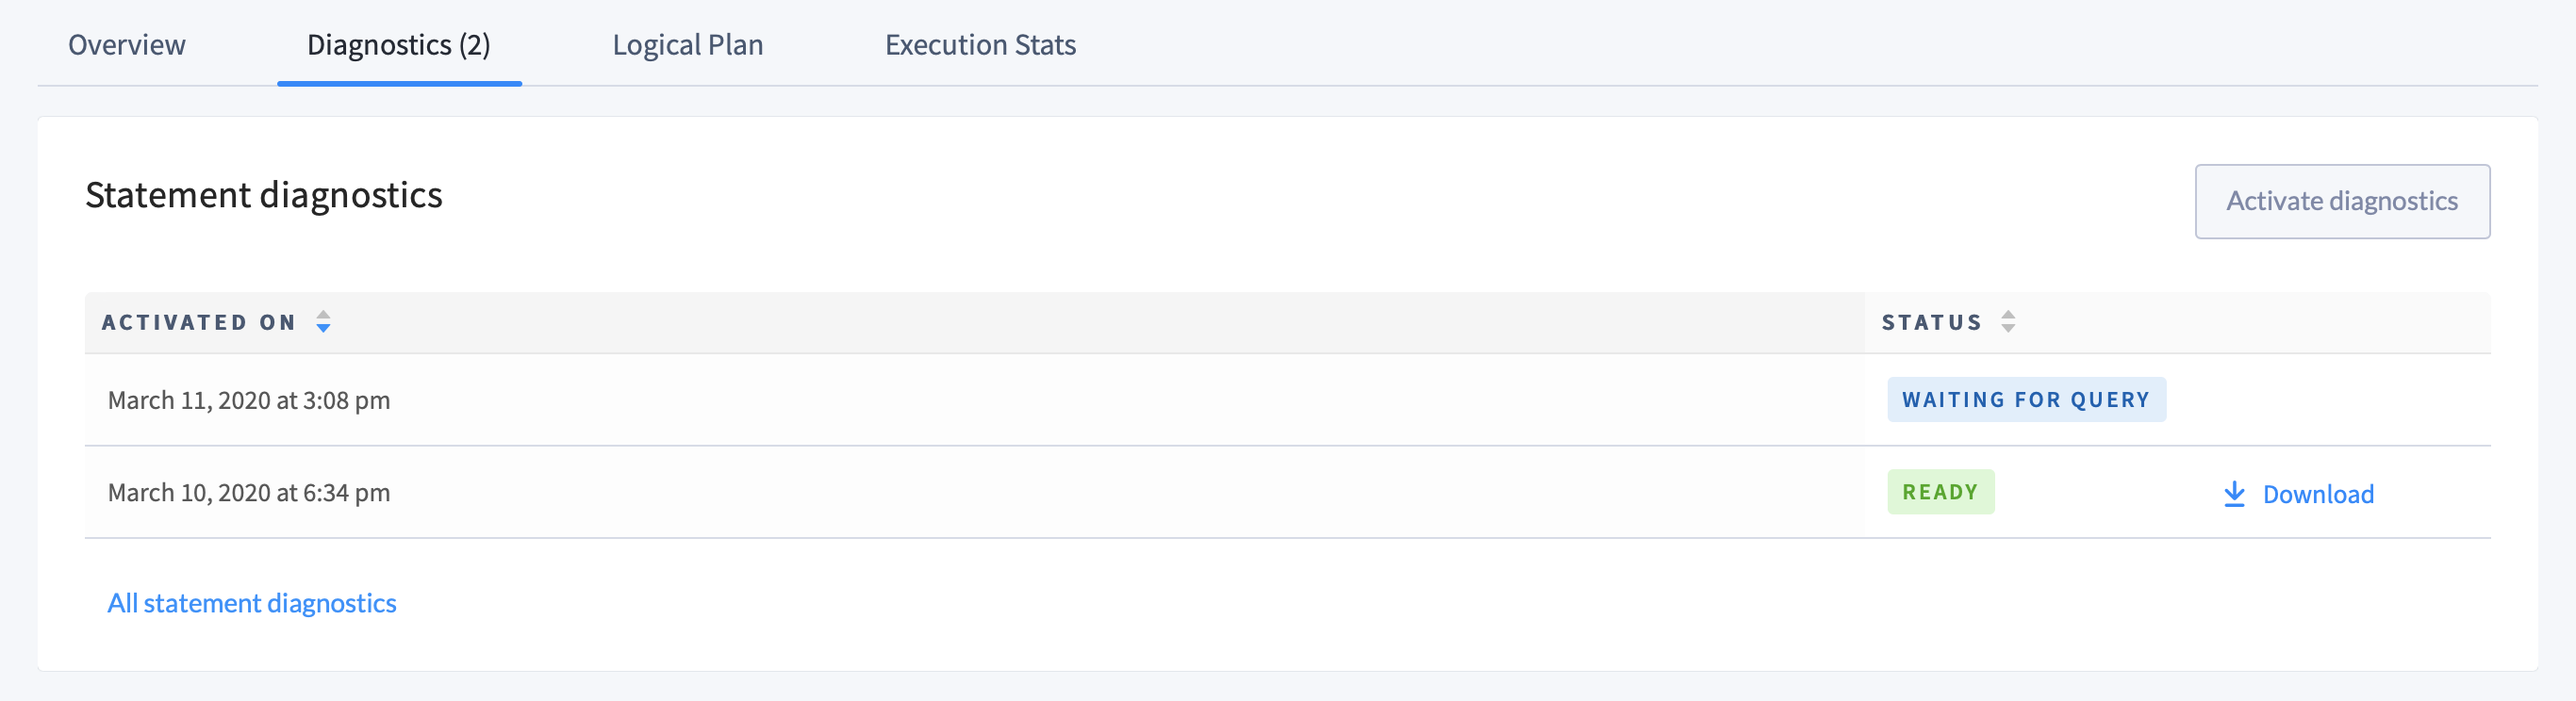
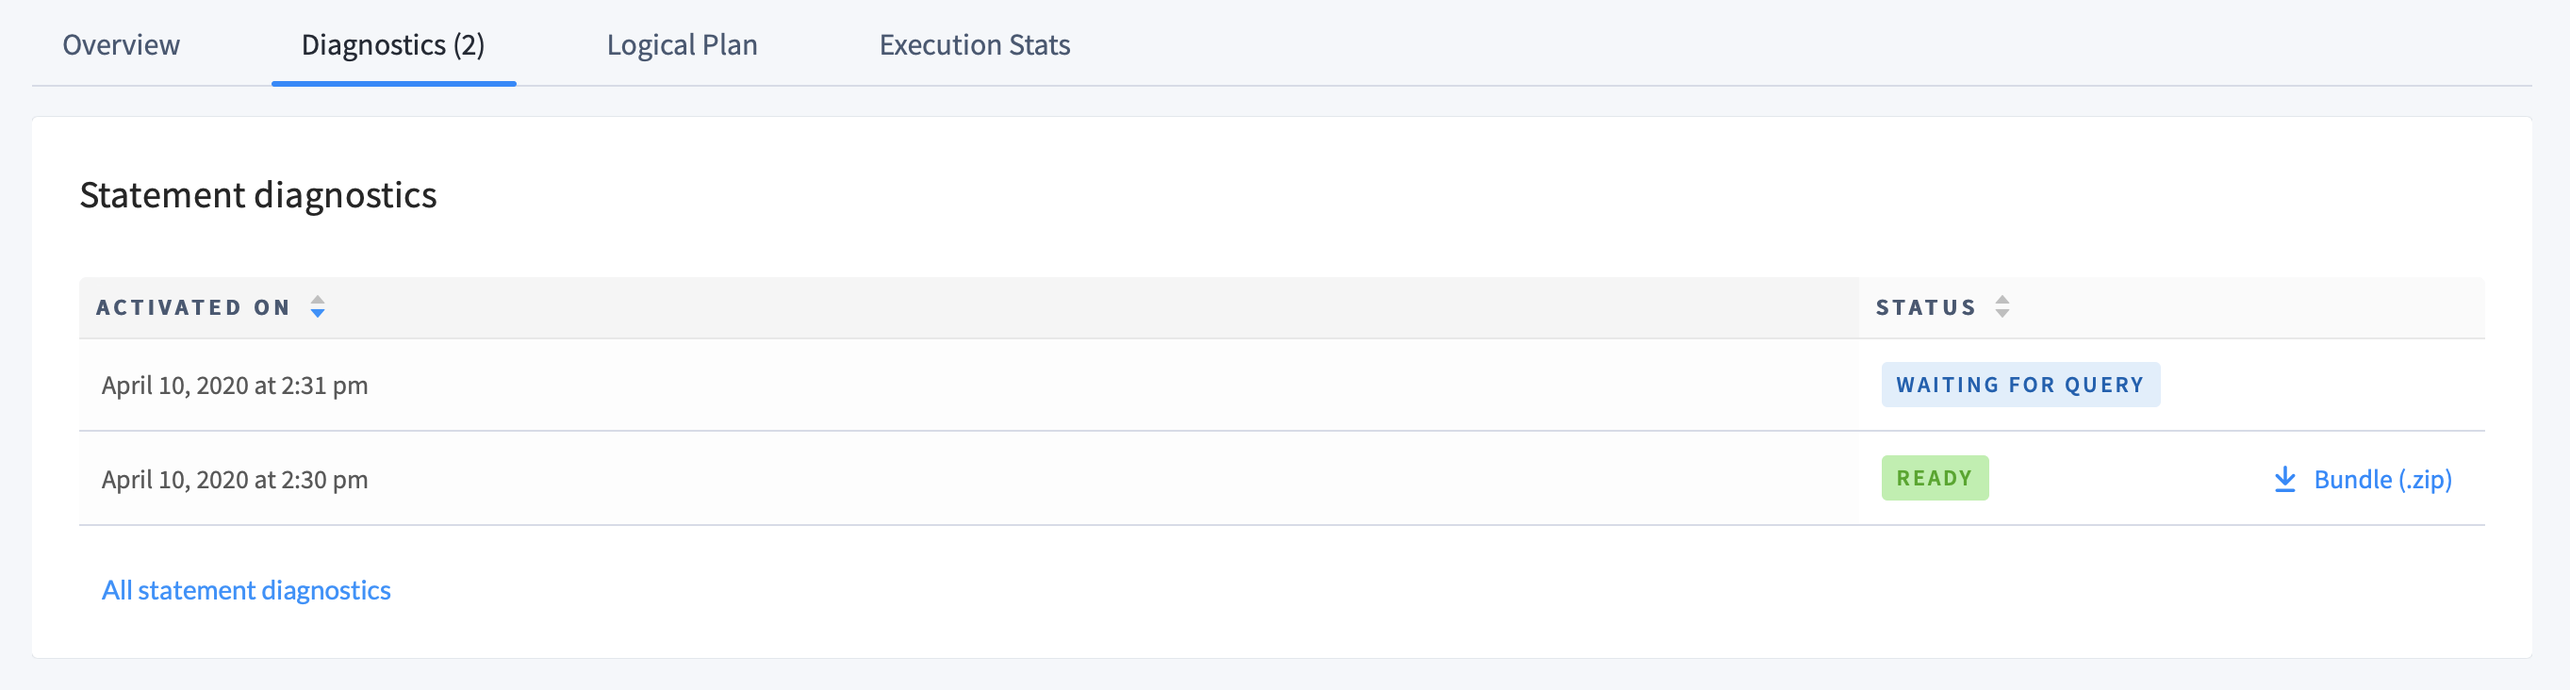
update with EXPLAIN ANALYZE (DEBUG)

diff --git a/v20.1/admin-ui-statements-page.md b/v20.1/admin-ui-statements-page.md
@@ -7,7 +7,7 @@ toc: true
 On a secure cluster, this area of the Admin UI can only be accessed by an `admin` user. See [Admin UI access](admin-ui-overview.html#admin-ui-access).
 {{site.data.alerts.end}}
 
-The **Statements** page helps you identify frequently executed or high latency [SQL statements](sql-statements.html), view SQL statement [details](#statement-details), and download SQL statement [diagnostics](#diagnostics) for troubleshooting.
+The **Statements** page helps you identify frequently executed or high latency [SQL statements](sql-statements.html), view SQL statement [details](#statement-details-page), and download SQL statement [diagnostics](#diagnostics) for troubleshooting.
 
 To view this page, [access the Admin UI](admin-ui-access-and-navigate.html#access-the-admin-ui) and click **Statements** in the left-hand navigation.
 
@@ -74,7 +74,7 @@ Retries | Cumulative number of [retries](transactions.html#transaction-retries) 
 Execution Count | Cumulative number of executions of statements with this fingerprint within the last hour or specified [time interval](#time-interval). <br><br>The bar indicates the ratio of runtime success (gray) to [retries](transactions.html#transaction-retries) (red) for the SQL statement fingerprint.
 Rows Affected | Average number of rows returned while executing statements with this fingerprint within the last hour or specified [time interval](#time-interval). <br><br>The gray bar indicates the mean number of rows returned. The blue bar indicates one standard deviation from the mean.
 Latency | Average service latency of statements with this fingerprint within the last hour or specified [time interval](#time-interval). Service latency is the time taken to execute a query once it is received by the cluster. It does not include the time taken to send the query to the cluster or return the result to the client. <br><br>The gray bar indicates the mean latency. The blue bar indicates one standard deviation from the mean.
-Diagnostics | <span class="version-tag">New in v20.1:</span> Option to activate [diagnostics](#diagnostics) for this fingerprint. If activated, this displays the status of diagnostics collection (`WAITING FOR QUERY`, `READY`, OR `ERROR`). When `READY`, the most recent diagnostics can be downloaded here. Access the full history of diagnostics for the fingerprint in the [**Statement Details**](#statement-details-page) page.
+Diagnostics | <span class="version-tag">New in v20.1:</span> Option to activate [diagnostics](#diagnostics) for this fingerprint. If activated, this displays the status of diagnostics collection (`WAITING FOR QUERY`, `READY`, OR `ERROR`). When `READY`, the most recent diagnostics bundle can be downloaded here. Access the full history of diagnostics for the fingerprint in the [**Statement Details**](#statement-details-page) page.
 
 ## Statement Details page
 
@@ -110,7 +110,7 @@ The **Overview** section displays the SQL statement fingerprint and essential st
 
 The **Diagnostics** section of the Statement Details page allows you to activate and view diagnostics for the SQL statement fingerprint.
 
-When you activate diagnostics for a fingerprint, CockroachDB waits for the next SQL query that matches this fingerprint to be run on any node. On the next match, information about the SQL statement is written to a diagnostics bundle that you can download. This bundle consists of a JSON file that contains a distributed trace of the SQL statement. 
+When you activate diagnostics for a fingerprint, CockroachDB waits for the next SQL query that matches this fingerprint to be run on any node. On the next match, information about the SQL statement is written to a diagnostics bundle that you can download. This bundle consists of a JSON file that contains a distributed trace of the SQL statement, a physical query plan, execution statistics, and other information about the query. For more details on the contents, see [`EXPLAIN ANALYZE (DEBUG)`](explain-analyze.html).
 
 {{site.data.alerts.callout_success}}
 Diagnostics will be collected a maximum of *N* times for a given activated fingerprint where *N* is the number of nodes in your cluster.
